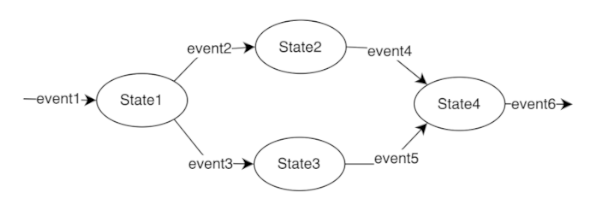
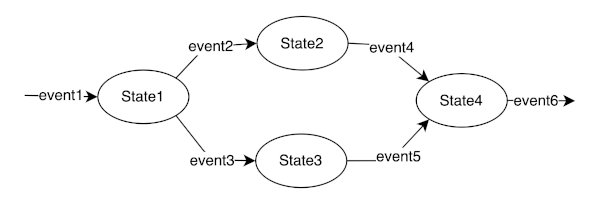
better resolution

diff --git a/README.md b/README.md
@@ -65,7 +65,7 @@ fsmDef = {
 
 Below is an example of an FSM for a telephone call. 
 
-![](CallFSM.png)
+![](CallFSM-700px.png)
 
 A call has originating and terminating ends, each with it's own path through the state machine. Notice that FSM events pass between states but are stimulated by external events. There are also external events exchanged between originating and terminating FSMs. While these external events are not part of the call FSM per se, they are essential to an accurate model of a call.
 
